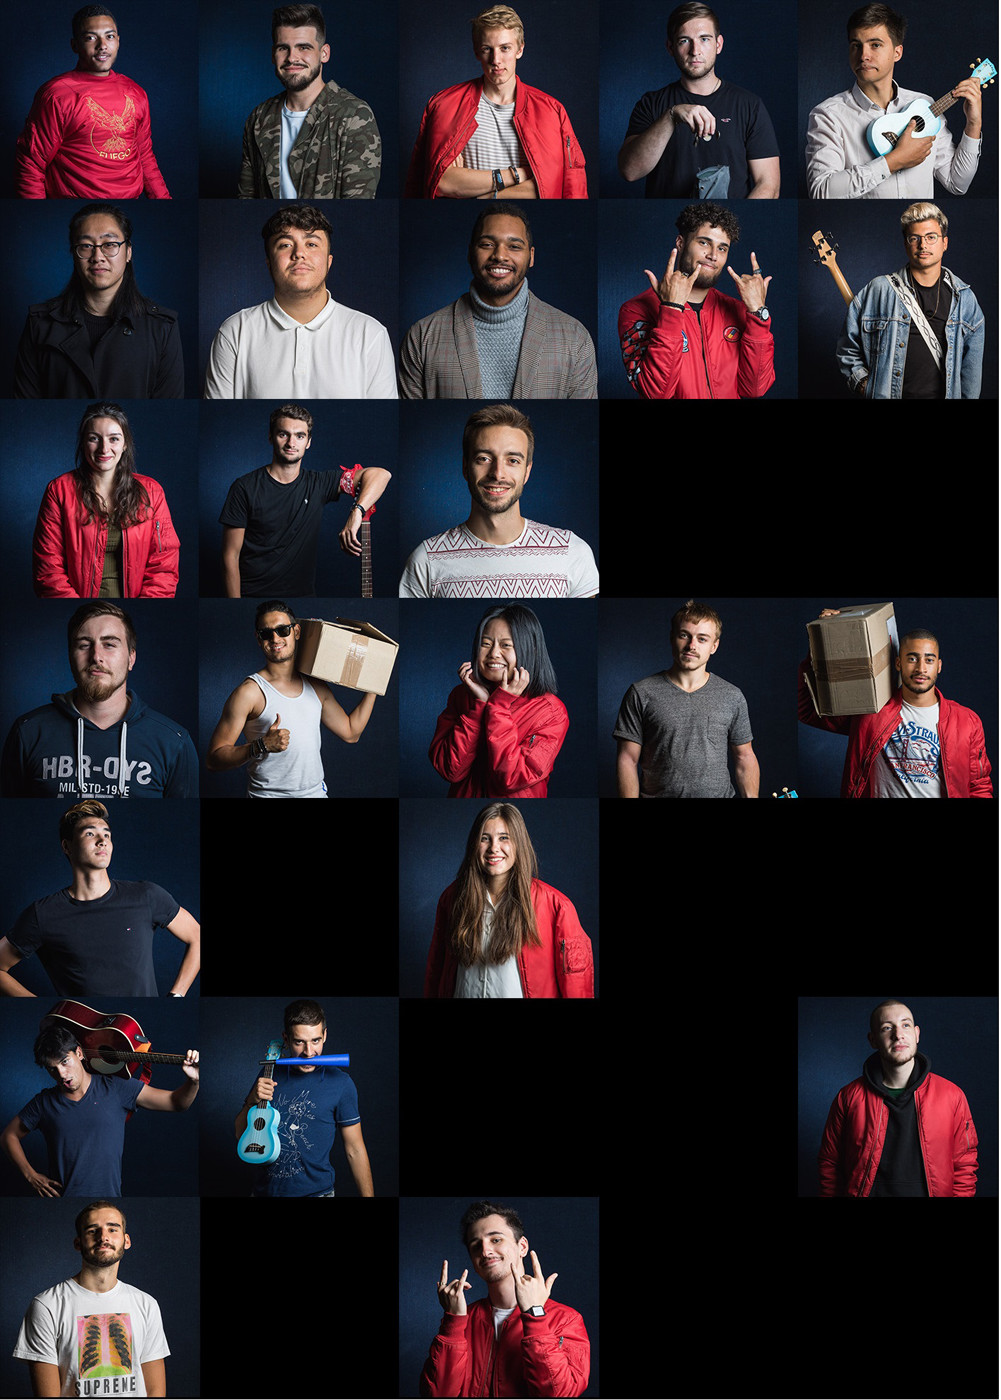
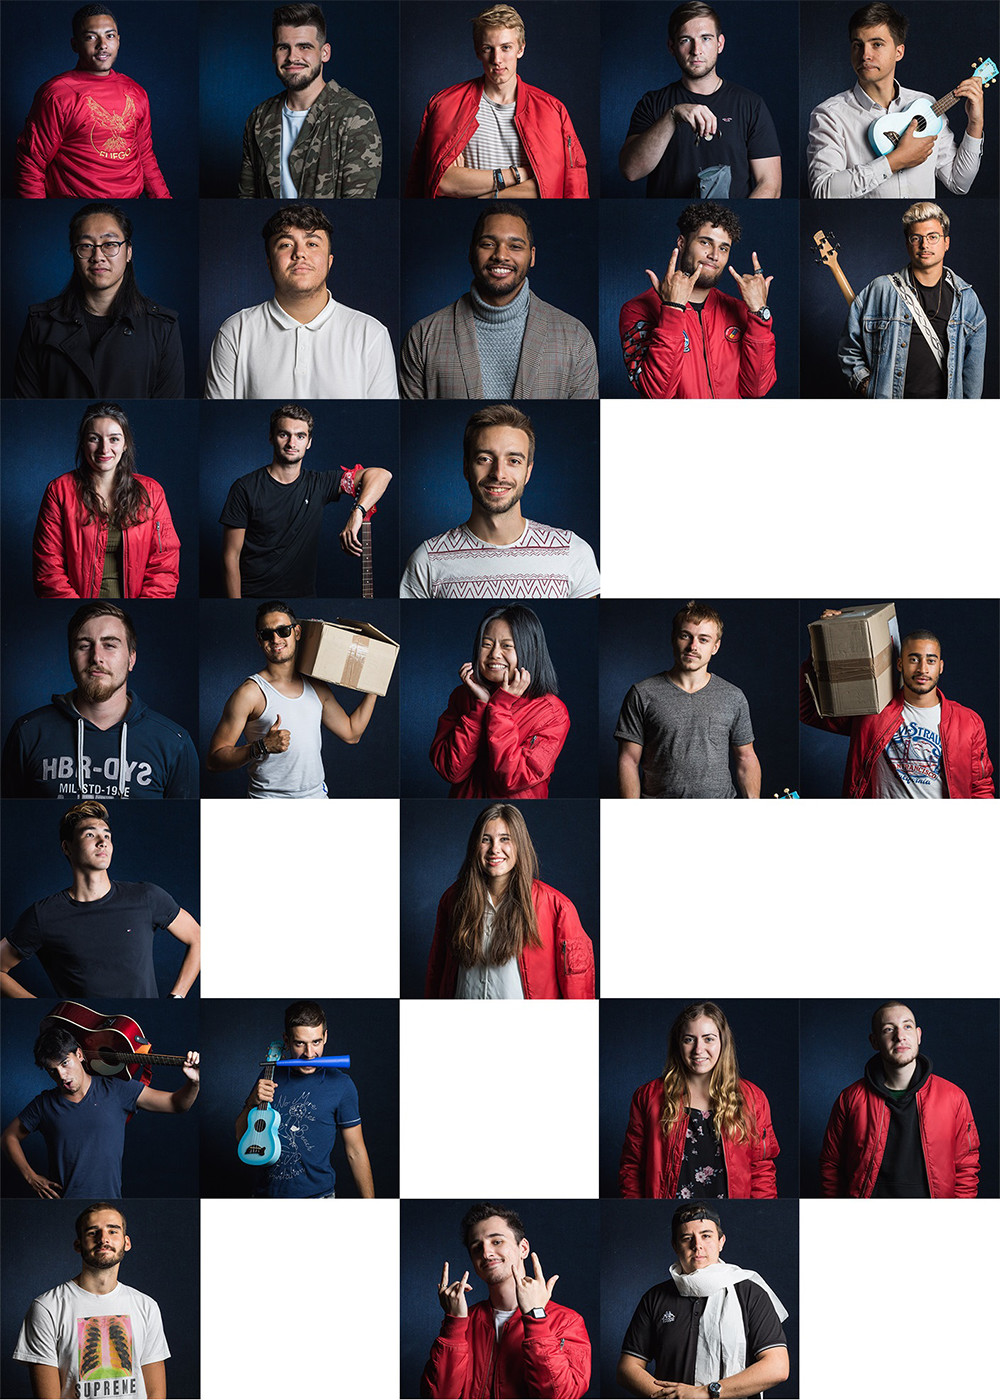
Ajout membres

diff --git a/src/Application/BDEBundle/Resources/public/css/team.css b/src/Application/BDEBundle/Resources/public/css/team.css
@@ -58,11 +58,12 @@
 .pic.valentin{background-position: -0px -1000px;}
 .pic.georges{background-position: -200px -1000px;}
 .pic.aymeric{background-position: -400px -1000px;}
-.pic.ghislain{background-position: -600px -1000px;}
+.pic.lea{background-position: -600px -1000px;}
 .pic.leopold{background-position: -800px -1000px;}
 .pic.guillaume{background-position: -0px -1200px;}
 .pic.gabo{background-position: -200px -1200px;}
 .pic.etienne{background-position: -400px -1200px;}
+.pic.pq{background-position: -600px -1200px;}
 
 @media (min-width: 750px) {
 	.bureau-top {
